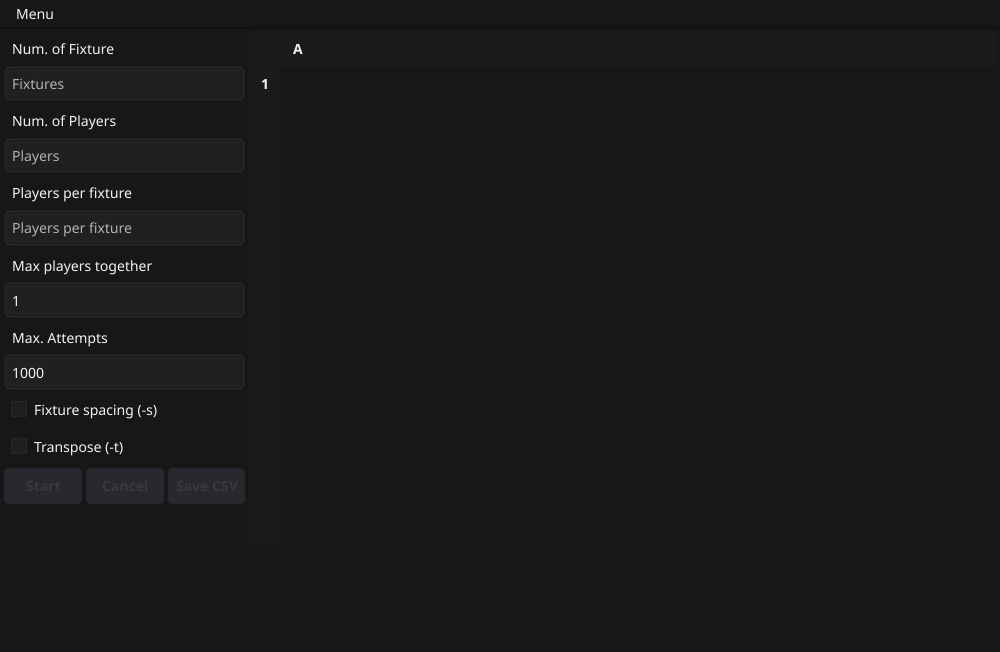
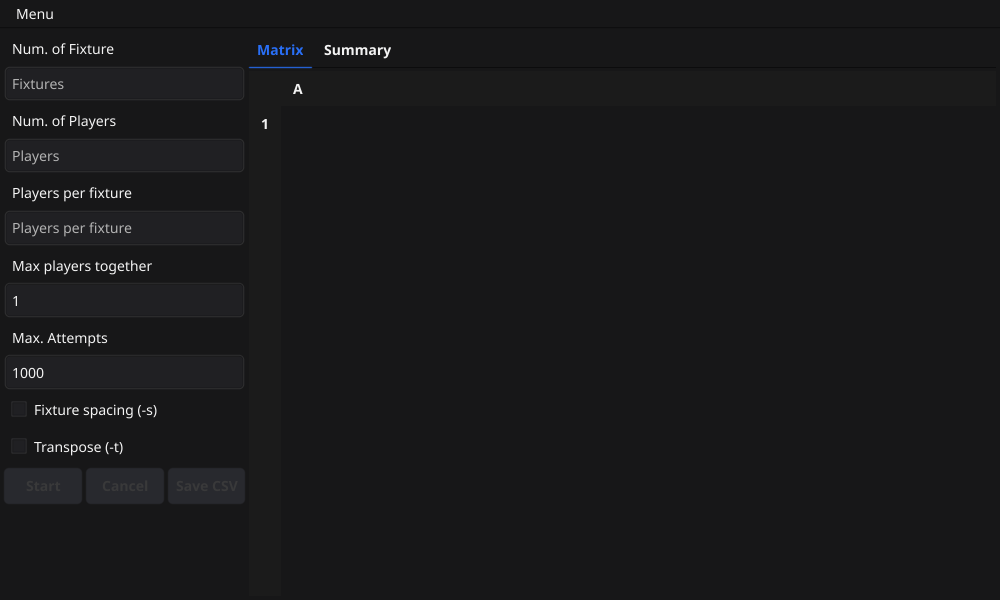
Move the desktop output into tabs and show errors on the Summary tab
The summary sat in a strip under the matrix, which added about 100
pixels to the window height on small screens. The matrix and the
summary are now tabs. A failed or cancelled run opens the Summary tab,
and a successful run opens the Matrix tab, so the grid is never blank
without the user knowing why.

- ui.go: Matrix and Summary tabs, and tab selection in finish
- ui_test.go: height limit tightened to 540, and tests for the tab
  selection after errors, cancels and successful runs
- desktop-app.md: tab wording, the automatic tab switch, and the
  retaken dark-theme screenshots at v1.2.1

diff --git a/src/desktop/ui_test.go b/src/desktop/ui_test.go
@@ -14,6 +14,7 @@ package main
 
 import (
 	"context"
+	"errors"
 	"testing"
 	"time"
 
@@ -21,6 +22,7 @@ import (
 	"fyne.io/fyne/v2/test"
 	"fyne.io/fyne/v2/widget"
 
+	"github.com/chippyash/gamedistributor/src/desktop/model"
 	"github.com/chippyash/gamedistributor/src/distributor"
 )
 
@@ -128,7 +130,7 @@ func TestEnterButtonRunsOnEnterOnlyWhenEnabled(t *testing.T) {
 
 // maxContentHeight is the tallest the window content may be, in logical pixels. It leaves room for the title bar and
 // menu on a 1080 pixel screen at 150% scaling
-const maxContentHeight = 640
+const maxContentHeight = 540
 
 // TestWindowFitsSmallScreen checks the window content is no taller than a 150% scaled 1080 pixel screen allows
 func TestWindowFitsSmallScreen(t *testing.T) {
@@ -169,5 +171,51 @@ func TestStartRunsFromEnterInWindow(t *testing.T) {
 	u.cancelRun()
 	for i := 0; u.running && i < 500; i++ {
 		time.Sleep(10 * time.Millisecond)
+	}
+}
+
+// TestFailedRunShowsSummaryTab checks that a run which fails, or is cancelled, moves to the Summary tab, where its message is
+func TestFailedRunShowsSummaryTab(t *testing.T) {
+	a := test.NewApp()
+	defer a.Quit()
+	u := newUI(a, "test")
+	defer u.splash.finish()
+	u.splash.finish()
+
+	u.finish(model.Settings{}, nil, nil, errors.New("too many attempts, exiting. Tried 1000 of 1000"))
+	if u.tabs.Selected() != u.summary {
+		t.Errorf("after an error the %q tab is selected, want Summary", u.tabs.Selected().Text)
+	}
+	if got := u.panel.Text; got != "too many attempts, exiting. Tried 1000 of 1000" {
+		t.Errorf("summary text %q", got)
+	}
+
+	u.tabs.Select(u.summary)
+	d := distributor.NewDistributor(24, 7, 3, 1000, 1, false)
+	u.finish(model.Settings{}, d, nil, context.Canceled)
+	if u.tabs.Selected() != u.summary {
+		t.Errorf("after a cancel the %q tab is selected, want Summary", u.tabs.Selected().Text)
+	}
+}
+
+// TestSuccessfulRunShowsMatrixTab checks that a run which produces a matrix moves to the Matrix tab
+func TestSuccessfulRunShowsMatrixTab(t *testing.T) {
+	a := test.NewApp()
+	defer a.Quit()
+	u := newUI(a, "test")
+	defer u.splash.finish()
+	u.splash.finish()
+
+	s := model.Settings{Fixtures: 24, Players: 7, PlayersPerFixture: 3, Attempts: 5000, MaxPlayersTogether: 1}
+	d := distributor.NewDistributor(s.Fixtures, s.Players, s.PlayersPerFixture, s.Attempts, s.MaxPlayersTogether, s.Spacing)
+	res, err := d.Distribute(context.Background())
+	if err != nil {
+		t.Fatalf("Distribute: %v", err)
+	}
+
+	u.tabs.Select(u.summary)
+	u.finish(s, d, res, nil)
+	if u.tabs.Selected() != u.matrix {
+		t.Errorf("after a successful run the %q tab is selected, want Matrix", u.tabs.Selected().Text)
 	}
 }

diff --git a/src/desktop/ui.go b/src/desktop/ui.go
@@ -39,6 +39,9 @@ type ui struct {
 	app     fyne.App
 	menu    *fyne.MainMenu
 	version string
+	tabs    *container.AppTabs
+	matrix  *container.TabItem
+	summary *container.TabItem
 
 	fixtures, players, perFixture, maxTogether, attempts *helpEntry
 	fieldErrs                                            map[string]*widget.Label
@@ -118,14 +121,17 @@ func newUI(a fyne.App, version string) *ui {
 		u.spinner,
 		u.status,
 	)
-	panel := container.New(layout.NewGridWrapLayout(fyne.NewSize(600, 100)), container.NewVScroll(u.panel))
+	// The summary sits in a tab beside the matrix, so it adds no height to the window
+	u.matrix = container.NewTabItem("Matrix", u.table)
+	u.summary = container.NewTabItem("Summary", container.NewVScroll(u.panel))
+	u.tabs = container.NewAppTabs(u.matrix, u.summary)
 	u.menu = fyne.NewMainMenu(fyne.NewMenu("Menu",
 		fyne.NewMenuItem("Theme", u.onTheme),
 		fyne.NewMenuItem("About", u.onAbout),
 		fyne.NewMenuItem("Help", u.onHelp),
 	))
 	u.win.SetMainMenu(u.menu)
-	main := container.NewBorder(nil, panel, controls, nil, u.table)
+	main := container.NewBorder(nil, nil, controls, nil, u.tabs)
 	u.splashing = true
 	u.splash = newSplashScreen(version, u.splashDone)
 	u.win.SetContent(container.NewStack(main, u.splash.layer, u.tip.layer))
@@ -322,16 +328,20 @@ func (u *ui) onStart() {
 func (u *ui) finish(s model.Settings, d *distributor.Distributor, res *distributor.Distributor, err error) {
 	u.setRunning(false)
 	u.status.SetText("")
+	// A run that produced no matrix shows its message on the Summary tab. A run that did shows the matrix
 	switch {
 	case errors.Is(err, context.Canceled):
 		u.result = nil
 		u.panel.SetText(model.CancelledMessage(d.AttemptsMade()))
+		u.tabs.Select(u.summary)
 	case err != nil:
 		u.result = nil
 		u.panel.SetText(err.Error())
+		u.tabs.Select(u.summary)
 	default:
 		u.result = res
 		u.panel.SetText(model.Summary(s, res))
+		u.tabs.Select(u.matrix)
 	}
 	u.redraw()
 	u.updateButtons()

diff --git a/docs/desktop-app.md b/docs/desktop-app.md
@@ -8,7 +8,7 @@ Both are in the release archive with the CLI.
 
 ![The desktop app main window at start](images/desktop-main-window.png)
 
-*Linux, v1.2.0, dark theme. The Windows appearance has not been checked on a real Windows machine.*
+*Linux, v1.2.1, dark theme. The Windows appearance has not been checked on a real Windows machine.*
 
 ## Starting the app
 
@@ -38,31 +38,35 @@ options start at the CLI defaults.
 
 ![The inputs filled in for 24 fixtures, 7 players and 3 per fixture](images/desktop-inputs.png)
 
-*Linux, v1.2.0, dark theme.*
+*Linux, v1.2.1, dark theme.*
 
 ## Running a distribution
 
 Press **Start**. The run happens in the background. A spinner shows that it is working, and the status line shows the attempt
 number, for example "Attempt 12 of 1000".
 
-Press **Cancel** to stop a run. A cancelled run shows no matrix, and the summary panel says "Cancelled after N attempts".
+Press **Cancel** to stop a run. A cancelled run shows no matrix, and the Summary tab says "Cancelled after N attempts".
 The inputs cannot be changed while a run is going.
 
 ## Reading the results
 
-- The **main panel** shows the matrix. An `X` marks a player taking part in a fixture, and a blank cell means they are not.
+- The **Matrix** tab shows the matrix. An `X` marks a player taking part in a fixture, and a blank cell means they are not.
   Rows and columns are labelled `P1` to `Pn` for players and `F1` to `Fn` for fixtures. Players are the rows by default.
   Scroll in either direction for large matrices.
-- The **secondary panel** shows the summary, in the same wording as the CLI: the players and fixtures, how many fixtures each
+- The **Summary** tab shows the summary, in the same wording as the CLI: the players and fixtures, how many fixtures each
   player must play, how many players play an extra fixture, whether fixture spacing applied, the maximum play-together value
   in use, and the attempt number. Errors and notes also appear here.
+
+If a run fails, the **Summary** tab opens by itself and shows the error. For example, "too many attempts, exiting. Tried
+1000 of 1000" means the attempts limit was reached before a valid distribution was found. A cancelled run also opens the
+Summary tab. A successful run opens the **Matrix** tab.
 
 Changing **Transpose** redraws the matrix straight away. Changing any other input clears the matrix and disables **Save
 CSV**, so you always save the result that matches the inputs.
 
 ![The matrix and summary for 24 fixtures, 7 players and 3 per fixture](images/desktop-results.png)
 
-*Linux, v1.2.0, dark theme. The matrix has players as rows and fixtures as columns, and the summary is below it.*
+*Linux, v1.2.1, dark theme. The matrix has players as rows and fixtures as columns, and the summary is on the Summary tab.*
 
 ## Saving the result
 
@@ -84,7 +88,7 @@ The menu entries have no keyboard shortcuts.
 
 ![The Menu open, showing Theme, About, Help and Quit](images/desktop-menu.png)
 
-*Linux, v1.2.0, dark theme.*
+*Linux, v1.2.1, dark theme.*
 
 ## Hover help
 
